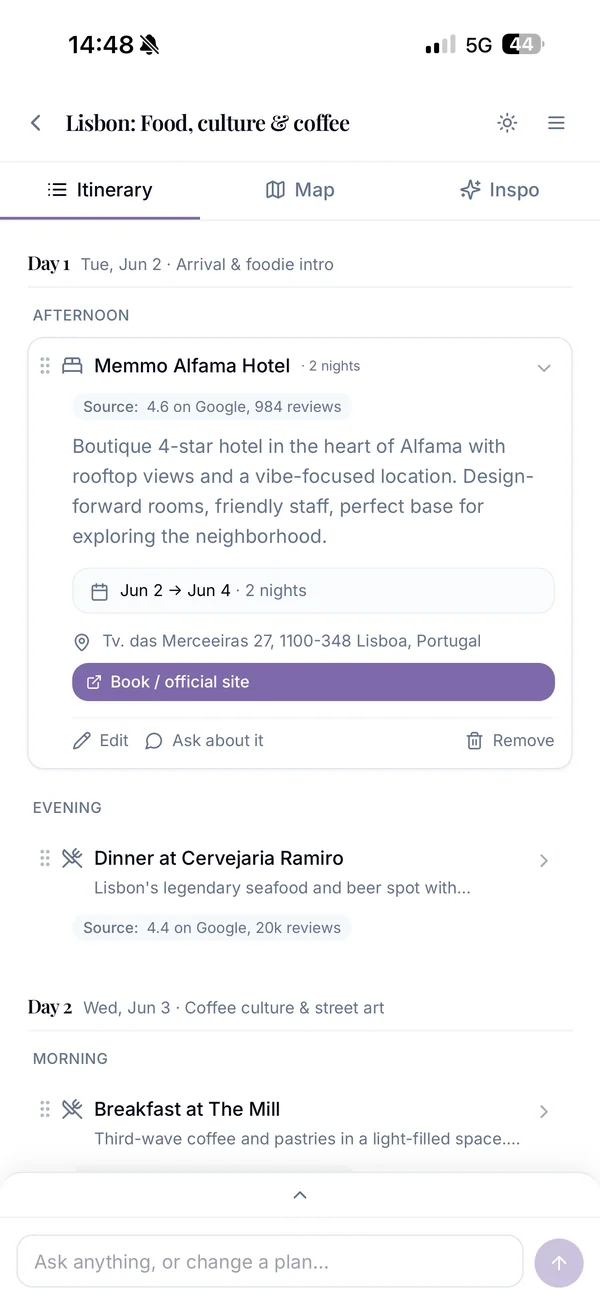
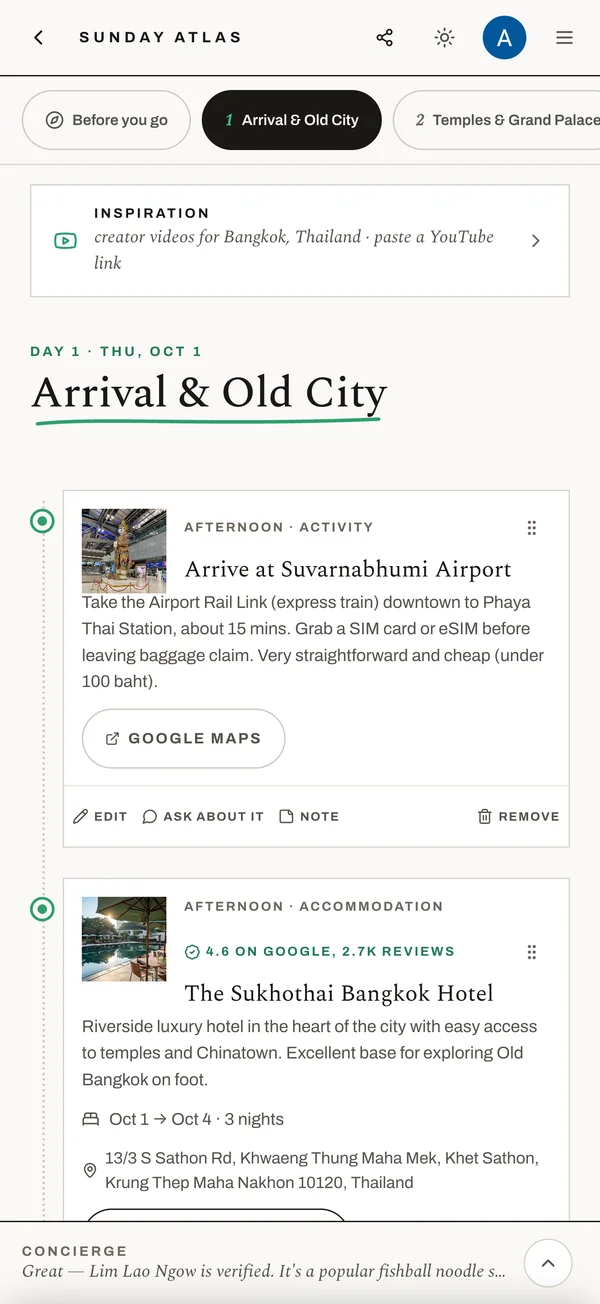
Update SundayAtlas screenshots for the Field Notes redesign
The app shipped a full redesign (warm neutrals, green accent, Spectral
serif), so the old cream and purple screens no longer matched the live
product a visitor lands on from "Try SundayAtlas".

Five new screens captured from the live app, cropped to the 600x1304
slot so the tile composition and drawer strip need no CSS change:
landing composer, the trips collection, a day-by-day itinerary, the
creator video browser, and the places extracted from one video.

The trips capture is cropped below the "Add to Home Screen" banner so
the shot starts at the app header like the others.

Captions and alt text renamed to match what is actually shown:
Landing, Your trips, Itinerary, Creator videos, Add to trip. Replaces
Home, Destinations, Itinerary, Map and Inspo, since the destinations
grid is now a landing section and the map lives inside the trip screen.

Case-study copy is unchanged and still accurate: the new app groups
creator videos into Eats / Sip / Do / Stay, still takes a pasted
YouTube link, and still extracts named places from a video for
one-click add with creator credit.

diff --git a/index.html b/index.html
@@ -340,11 +340,11 @@
 
     <a class="tile tile--wide t-sa" href="#sundayatlas" data-open="sundayatlas" data-reveal>
       <div class="stage stage--flagship">
-        <img class="shot shot--flagship p-far-l" src="sundayatlas-inspo.webp" alt="" loading="lazy" width="600" height="1304">
-        <img class="shot shot--flagship p-near-l" src="sundayatlas-destinations.webp" alt="" loading="lazy" width="600" height="1304">
-        <img class="shot shot--flagship p-mid" src="sundayatlas-home.webp" alt="SundayAtlas screens" loading="lazy" width="600" height="1304">
+        <img class="shot shot--flagship p-far-l" src="sundayatlas-extract.webp" alt="" loading="lazy" width="600" height="1304">
+        <img class="shot shot--flagship p-near-l" src="sundayatlas-trips.webp" alt="" loading="lazy" width="600" height="1304">
+        <img class="shot shot--flagship p-mid" src="sundayatlas-landing.webp" alt="SundayAtlas screens" loading="lazy" width="600" height="1304">
         <img class="shot shot--flagship p-near-r" src="sundayatlas-itinerary.webp" alt="" loading="lazy" width="600" height="1304">
-        <img class="shot shot--flagship p-far-r" src="sundayatlas-map.webp" alt="" loading="lazy" width="600" height="1304">
+        <img class="shot shot--flagship p-far-r" src="sundayatlas-creators.webp" alt="" loading="lazy" width="600" height="1304">
       </div>
       <div class="tile-text">
         <div class="tile-left">
@@ -462,11 +462,11 @@
         <a class="link-u cs-live" href="https://sundayatlas.vercel.app/" target="_blank" rel="noopener" aria-label="Try SundayAtlas, open the live product">Try SundayAtlas <span aria-hidden="true">&#8599;</span></a>
       </div>
       <div class="strip">
-        <figure><img src="sundayatlas-home.webp" alt="SundayAtlas Home screen" loading="lazy" width="600" height="1304" style="aspect-ratio: 600 / 1304;"><figcaption>Home</figcaption></figure>
-        <figure><img src="sundayatlas-destinations.webp" alt="SundayAtlas Destinations screen" loading="lazy" width="600" height="1304" style="aspect-ratio: 600 / 1304;"><figcaption>Destinations</figcaption></figure>
-        <figure><img src="sundayatlas-itinerary.webp" alt="SundayAtlas Itinerary screen" loading="lazy" width="600" height="1304" style="aspect-ratio: 600 / 1304;"><figcaption>Itinerary</figcaption></figure>
-        <figure><img src="sundayatlas-map.webp" alt="SundayAtlas Map screen" loading="lazy" width="600" height="1304" style="aspect-ratio: 600 / 1304;"><figcaption>Map</figcaption></figure>
-        <figure><img src="sundayatlas-inspo.webp" alt="SundayAtlas Inspo screen" loading="lazy" width="600" height="1304" style="aspect-ratio: 600 / 1304;"><figcaption>Inspo</figcaption></figure>
+        <figure><img src="sundayatlas-landing.webp" alt="SundayAtlas landing screen with the trip composer" loading="lazy" width="600" height="1304" style="aspect-ratio: 600 / 1304;"><figcaption>Landing</figcaption></figure>
+        <figure><img src="sundayatlas-trips.webp" alt="SundayAtlas collection of saved trips" loading="lazy" width="600" height="1304" style="aspect-ratio: 600 / 1304;"><figcaption>Your trips</figcaption></figure>
+        <figure><img src="sundayatlas-itinerary.webp" alt="SundayAtlas day-by-day itinerary screen" loading="lazy" width="600" height="1304" style="aspect-ratio: 600 / 1304;"><figcaption>Itinerary</figcaption></figure>
+        <figure><img src="sundayatlas-creators.webp" alt="SundayAtlas creator videos grouped into Eats, Sip, Do and Stay" loading="lazy" width="600" height="1304" style="aspect-ratio: 600 / 1304;"><figcaption>Creator videos</figcaption></figure>
+        <figure><img src="sundayatlas-extract.webp" alt="SundayAtlas places extracted from a creator video, each with an add to trip button" loading="lazy" width="600" height="1304" style="aspect-ratio: 600 / 1304;"><figcaption>Add to trip</figcaption></figure>
       </div>
       <div>
         <div class="story-row">
